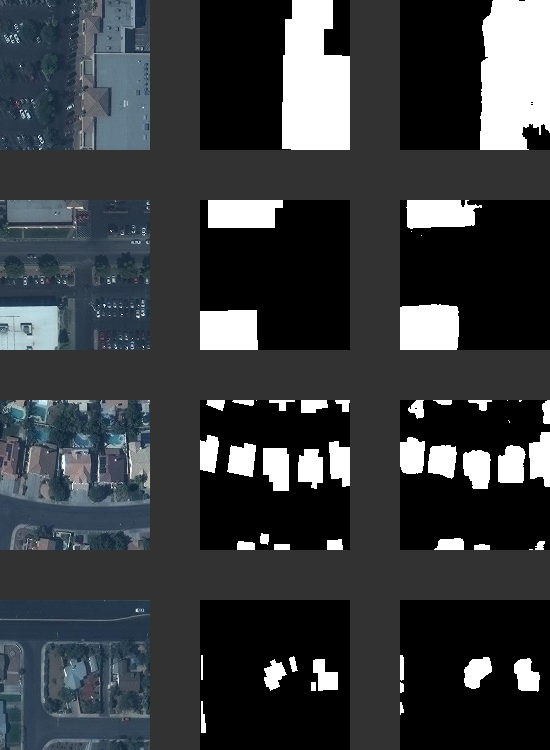
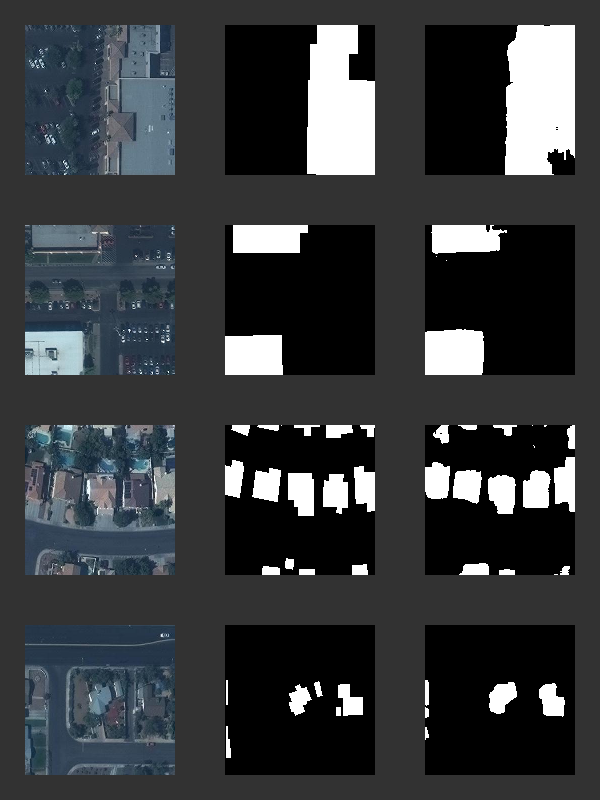
Add small border to prediction example, #6

diff --git a/analysis/example_evaluation.py b/analysis/example_evaluation.py
@@ -14,14 +14,16 @@ def visualize(images, ground_truth, predictions):
     ground_truth = [cv2.cvtColor(gt.astype(np.uint8) * 255, cv2.COLOR_GRAY2BGR) for gt in ground_truth]
     predictions = [cv2.cvtColor(p.astype(np.uint8) * 255, cv2.COLOR_GRAY2BGR) for p in predictions]
 
-    collection = np.ones((750, 550, 3), dtype=np.uint8) * 50
+    collection = np.ones((800, 600, 3), dtype=np.uint8) * 50
     for i in range(len(images)):
-        pos = i * 200
-        collection[pos: pos + 150, 0:150, :] = images[i]
-        collection[pos: pos + 150, 200:350, :] = ground_truth[i]
-        collection[pos: pos + 150, 400:550, :] = predictions[i]
+        pos = i * 200 + 25
+        collection[pos: pos + 150, 25:175, :] = images[i]
+        collection[pos: pos + 150, 225:375, :] = ground_truth[i]
+        collection[pos: pos + 150, 425:575, :] = predictions[i]
     cv2.imshow('Example Prediction', collection)
-    cv2.waitKey(0)
+    key = cv2.waitKey(0)
+    if key != 27:
+        cv2.imwrite('/home/flo/uni/wise18/projekt/houseNet/images/prediction_rnet.png', collection)
     cv2.destroyAllWindows()
 
 

diff --git a/README.md b/README.md
@@ -48,4 +48,6 @@ Go to [issues](https://github.com/mcFloskel/houseNet/issues) to see a list of op
 Below you can see an example prediction of the [rNet](https://github.com/mcFloskel/houseNet/blob/master/networks/rNet.py) architecture.
 (Left to right: original image, ground truth, prediction)
 
-![Example Prediction](https://github.com/mcFloskel/houseNet/blob/master/images/prediction_rnet.png)
+<p align="center">
+  <img src="https://github.com/mcFloskel/houseNet/blob/master/images/prediction_rnet.png"/>
+</p>
